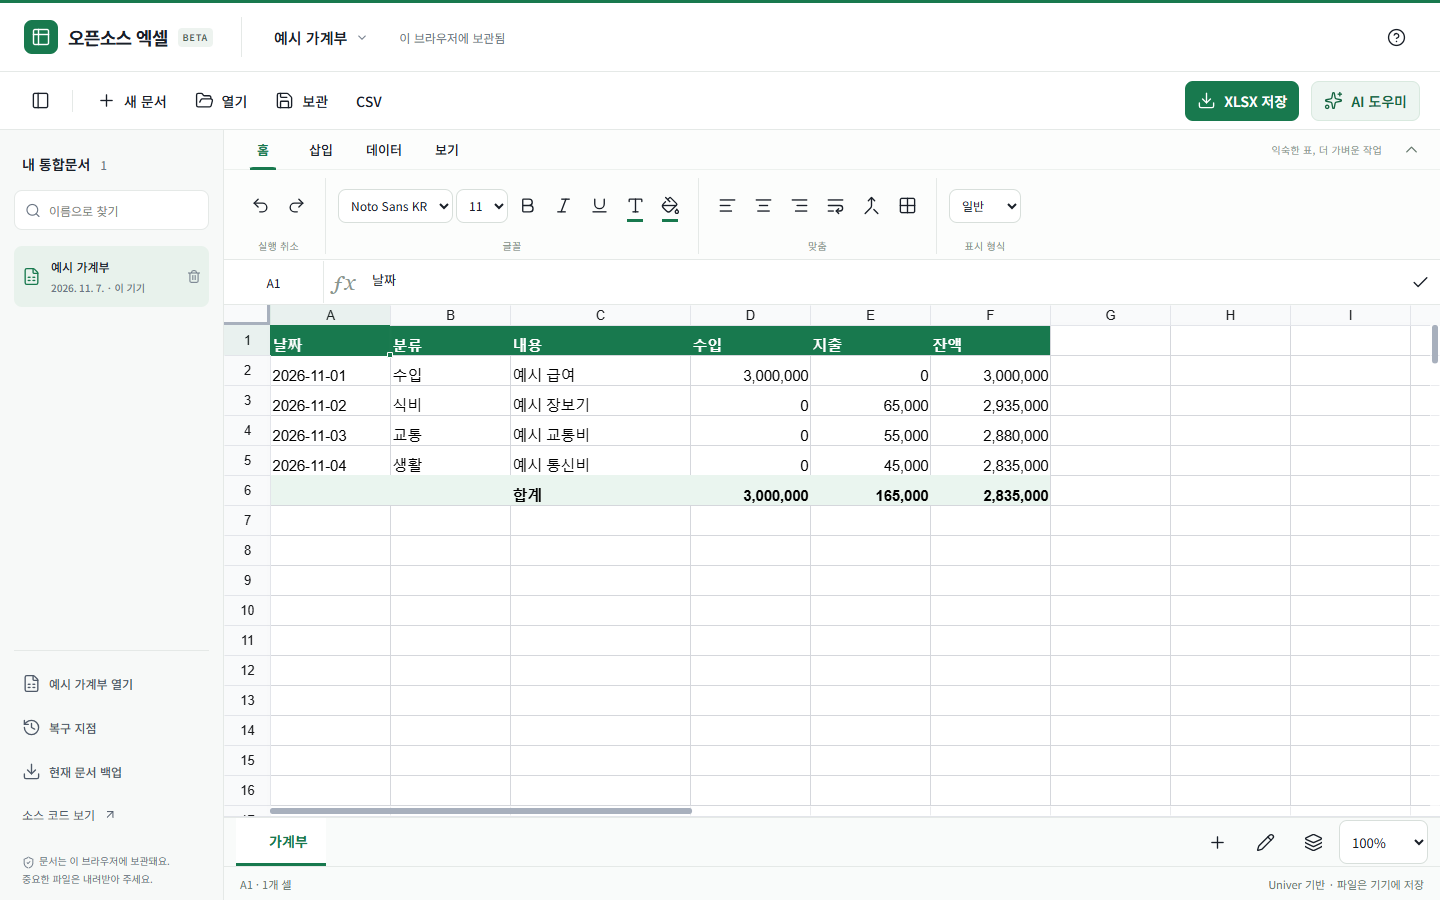
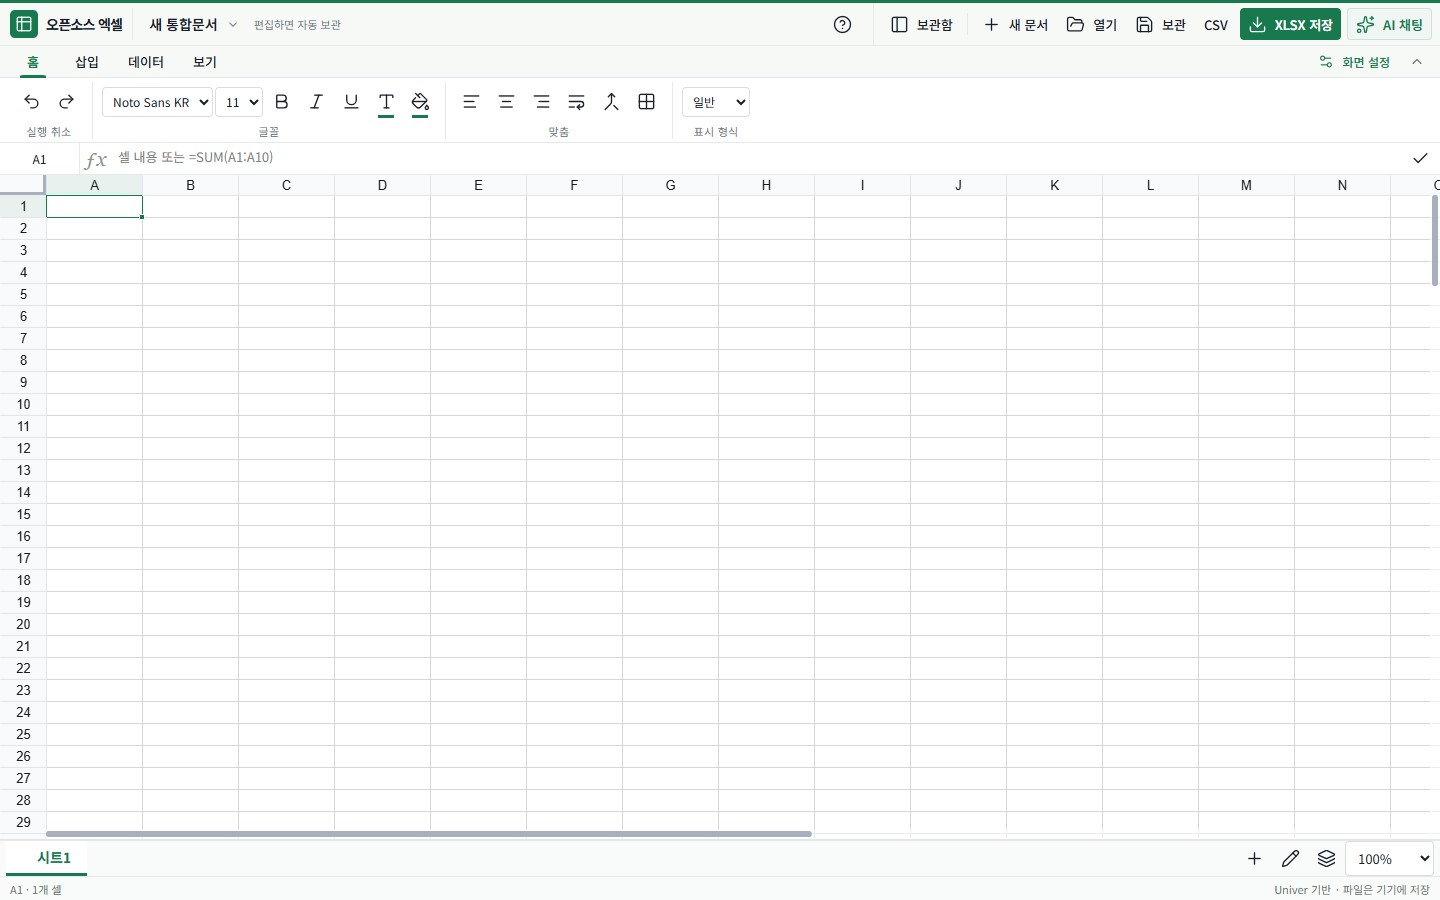
Expand the spreadsheet workspace with compact Excel-style controls

diff --git a/src/style.css b/src/style.css
@@ -2788,3 +2788,49 @@ dialog.history-dialog {
   .ai-dialog,
   [data-ai-width="wide"] .ai-dialog { width: var(--ai-panel-width); }
 }
+
+
+/* Desktop workbook chrome: keep the sheet, not spacing, as the main surface. */
+@media (min-width: 801px) {
+  .topbar { min-height: 42px; gap: 10px; padding: 0 10px; }
+  .brand { gap: 8px; }
+  .brand > svg { width: 28px; height: 28px; padding: 5px; border-radius: 5px; }
+  .brand h1, .document-heading button { font-size: 14px; }
+  .filebar { min-height: 42px; padding: 3px 8px; gap: 4px; }
+  .filebar button { min-height: 32px; padding: 4px 8px; border-radius: 4px; }
+  .file-actions { gap: 2px; }
+  .filebar .separator { margin-inline: 4px; }
+  .ribbon-tabs { height: 32px; padding-inline: 8px; }
+  .ribbon-tab-list > [role="tab"] { height: 32px; min-height: 32px; padding: 4px 12px; }
+  .ribbon-view-actions > button { min-height: 28px; }
+  .ribbon-panel { height: 64px; padding: 4px 6px 3px; }
+  .ribbon-group { gap: 2px; padding: 0 9px; }
+  .ribbon-controls { gap: 2px; }
+  .ribbon-controls button, .ribbon-controls .icon-btn { min-height: 30px; padding: 4px 6px; border-radius: 4px; }
+  .ribbon-controls select { height: 30px; padding: 3px 6px; border-radius: 4px; }
+  .ribbon-caption { line-height: 1.4; }
+  [data-density="compact"] .ribbon-panel { height: 44px; }
+  .formula { min-height: 32px; }
+  .formula #address { width: 80px; height: 31px; padding: 4px 6px; }
+  .formula .fx { width: 32px; font-size: 20px; }
+  .formula #cell-input { min-height: 31px; padding: 4px 6px; }
+  .formula > button { min-height: 30px; padding: 4px 8px; }
+  .sheetbar { min-height: 34px; padding-inline: 6px; gap: 2px; }
+  .sheetbar button, .sheetbar select { min-height: 32px; padding: 4px 8px; border-radius: 4px; }
+  .sheetbar .icon-btn { width: 34px; }
+  .sheet-tabs { gap: 2px; }
+  .sheet-tabs button { padding: 4px 16px; border-radius: 0; }
+  .statusbar { min-height: 24px; padding: 3px 10px; }
+  :root:has([data-coders-support]) { --host-footer-space: 0px; }
+  :root:has([data-coders-support]) .statusbar { min-height: 50px; padding-right: 224px; }
+  :root:has([data-coders-support]) [data-coders-support] { bottom: max(env(safe-area-inset-bottom, 0px), 2px) !important; right: 8px !important; }
+}
+@media (min-width: 1000px) {
+  :root.ai-panel-open:has([data-coders-support]) [data-coders-support] {
+    right: calc(var(--ai-panel-width, 420px) + 8px) !important;
+  }
+}
+@media (min-width: 801px) and (pointer: coarse) {
+  .sheetbar button, .sheetbar select { min-height: 44px; }
+  .sheetbar .icon-btn { width: 44px; }
+}

diff --git a/tests/server.test.ts b/tests/server.test.ts
@@ -31,7 +31,7 @@ test('AI provider request forwards trusted identity, limits context and parses r
   let body: Record<string, unknown> = {}; let headers: Record<string, string> = {};
   const request = async (url: string, init: RequestInit) => { assert.equal(url, 'https://example.invalid/llm/v1/messages'); assert.equal(init.redirect, 'error'); body = JSON.parse(init.body as string); headers = init.headers as Record<string, string>; return new Response(JSON.stringify({ content: [{ type: 'text', text: '{"explanation":"합계 수식입니다.","formula":"=SUM(B2:B10)"}' }] }), { headers: { 'content-type': 'application/json' } }); };
   const result = await askAI({ prompt: 'B2:B10 합계', context: '' }, 'test-user', { ANTHROPIC_API_KEY: 'unit-test-placeholder', ANTHROPIC_BASE_URL: 'https://example.invalid/llm' }, request);
-  assert.equal(result.status, 200); assert.equal(result.body.formula, '=SUM(B2:B10)'); assert.equal(headers['X-Coders-User'], 'test-user'); assert.equal(headers['User-Agent'], 'Excel-Workspace/0.7.0'); assert.equal(body.max_tokens, 1200);
+  assert.equal(result.status, 200); assert.equal(result.body.formula, '=SUM(B2:B10)'); assert.equal(headers['X-Coders-User'], 'test-user'); assert.equal(headers['User-Agent'], 'Excel-Workspace/0.8.0'); assert.equal(body.max_tokens, 1200);
 });
 const editContext = JSON.stringify({
   sheet: '품목', range: 'B2:C3',

diff --git a/tests/navigation.spec.ts b/tests/navigation.spec.ts
@@ -70,7 +70,7 @@ test("sheet navigation, renaming, numeric summary and formula help work on deskt
       .toBe(true);
     for (const id of ["#sheet-add", "#sheet-rename", "#sheet-zoom"]) {
       const box = await page.locator(id).boundingBox();
-      expect(box?.height).toBeGreaterThanOrEqual(44);
+      expect(box?.height).toBeGreaterThanOrEqual(viewport.width <= 800 ? 44 : 32);
     }
     if (viewport.width <= 800) {
       await expect(page.locator("#sheet-picker")).toBeVisible();
@@ -135,4 +135,11 @@ test("the hosted support button leaves sheet controls accessible", async ({
     await page.keyboard.press("Escape");
     await expect(page.locator("#sheet-manage")).toBeFocused();
   }
+  const grid = (await page.locator('.sheet-stage').boundingBox())!;
+  expect(grid.height).toBeGreaterThan(600);
+  expect(grid.width).toBeGreaterThan(1400);
+  await page.locator('#ai-open').click();
+  const chat = (await page.locator('#ai-dialog').boundingBox())!;
+  const widget = (await page.locator('[data-coders-support]').boundingBox())!;
+  expect(widget.x + widget.width).toBeLessThanOrEqual(chat.x);
 });

diff --git a/src/model.ts b/src/model.ts
@@ -101,10 +101,10 @@ export function newBook(example = false): IWorkbookData {
         name: example ? "가계부" : "시트1",
         rowCount: 200,
         columnCount: 26,
-        defaultColumnWidth: 120,
-        defaultRowHeight: 30,
+        defaultColumnWidth: example ? 120 : 96,
+        defaultRowHeight: example ? 30 : 22,
         cellData: cells,
-        columnData: { 2: { w: 180 } },
+        columnData: example ? { 2: { w: 180 } } : {},
       },
     },
   };

diff --git a/src/main.ts b/src/main.ts
@@ -303,7 +303,9 @@ function addSheet() {
     throw new Error(
       `통합문서에는 최대 ${LIMITS.sheets}개 시트를 만들 수 있어요.`,
     );
-  const sheet = editor.current().insertSheet();
+  const sheet = editor.current().insertSheet(undefined, {
+    sheet: { defaultColumnWidth: 96, defaultRowHeight: 22 },
+  });
   editor.current().setActiveSheet(sheet);
   onChange();
   onSelection();

diff --git a/src/ribbon.ts b/src/ribbon.ts
@@ -332,7 +332,7 @@ export function mountRibbon(options: Options) {
     accent: "green",
     density: "comfortable",
     layout: "wide",
-    "ai-width": "wide",
+    "ai-width": "compact",
   };
   const displayKey = "excel-workspace-display";
   const applyPreferences = () => {

diff --git a/VERIFICATION.md b/VERIFICATION.md
@@ -1,5 +1,12 @@
 # 검증 기록
 
+## v0.8 로컬 검증 — 2026-11-07
+
+- `npm run build`와 단위 테스트 51개가 통과했다. Chrome 브라우저 시나리오 10개에서 새 시트·셀/수식·서식·파일 왕복·보관·AI 자동 반영·포커스와 화면 설정을 확인했다.
+- 360×800, 390×844, 768×1024, 1440×900 화면을 촬영하고 확인했다. 모바일44px 조작 영역과 가로 넘침 방지, 새 PC 리본·수식줄·시트 탐색을 검사했다.
+- Coders 후원 요소를 포함한 1440×900에서 시트 영역 높이600px 이상·너비1400px 이상을 확인했다. 후원 요소는 시트 버튼과 겹치지 않고, AI 패널을 열어도 채팅 입력 영역을 가리지 않는다.
+- 새 빈 통합문서와 추가 시트에만 96px 기본 열·22px 기본 행을 사용한다. 파일 가져오기와 기존 문서의 저장된 크기는 변경하지 않는다. AI 제공자/API 계약은 기존 버전과 동일하며 이번 UI 수정에서는 실 API 호출을 반복하지 않았다.
+
 ## v0.7 로컬 검증 — 2026-11-07
 
 - 타입 검사를 포함한 `npm run build`, 단위 테스트 51개와 Chrome 브라우저 시나리오 20개가 통과했다. 기존 편집·수식·서식·시트 관리·정렬·찾기·보관·복구·파일 입출력을 회귀 검사했다.
